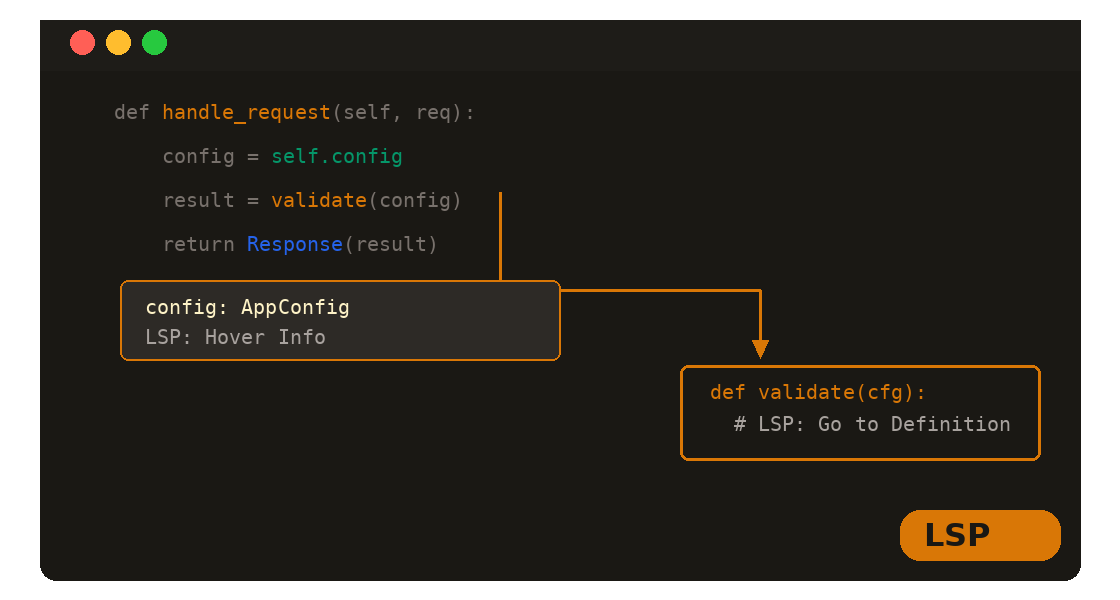
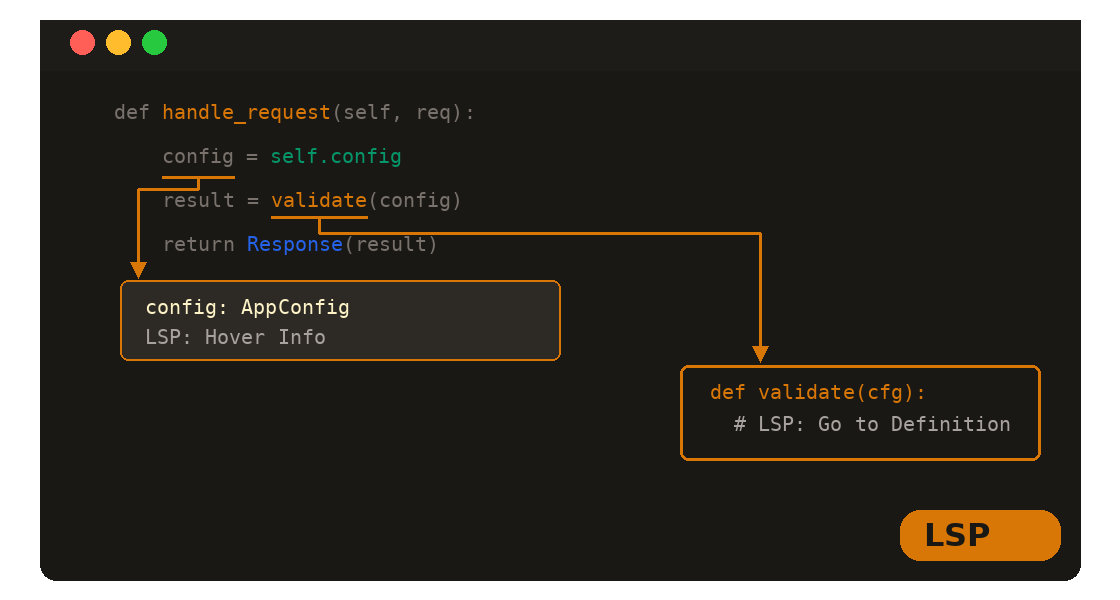
feat: Fix hero image

diff --git a/scripts/generate_lsp_hero_fixed.py b/scripts/generate_lsp_hero_fixed.py
@@ -1,0 +1,160 @@
+from __future__ import annotations
+
+from pathlib import Path
+import sys
+
+from PIL import Image, ImageDraw, ImageFont
+
+
+DARK = "#1A1814"
+AMBER = "#D97706"
+AMBER_LIGHT = "#FEF3C7"
+WHITE = "#FFFDF5"
+STONE = "#78716C"
+GREEN = "#059669"
+BLUE = "#2563EB"
+MUTED = "#A8A29E"
+
+
+def hex_to_rgb(value: str) -> tuple[int, int, int]:
+    value = value.lstrip("#")
+    return tuple(int(value[i:i + 2], 16) for i in (0, 2, 4))
+
+
+DARK_RGB = hex_to_rgb(DARK)
+AMBER_RGB = hex_to_rgb(AMBER)
+AMBER_LIGHT_RGB = hex_to_rgb(AMBER_LIGHT)
+WHITE_RGB = hex_to_rgb(WHITE)
+STONE_RGB = hex_to_rgb(STONE)
+GREEN_RGB = hex_to_rgb(GREEN)
+BLUE_RGB = hex_to_rgb(BLUE)
+MUTED_RGB = hex_to_rgb(MUTED)
+
+
+def load_font(path: str, size: int) -> ImageFont.FreeTypeFont | ImageFont.ImageFont:
+    try:
+        return ImageFont.truetype(path, size)
+    except OSError:
+        return ImageFont.load_default()
+
+
+FONT_LG = load_font("/usr/share/fonts/truetype/dejavu/DejaVuSans-Bold.ttf", 32)
+FONT_CODE = load_font("/usr/share/fonts/truetype/dejavu/DejaVuSansMono.ttf", 20)
+
+
+def draw_arrowhead(
+    draw: ImageDraw.ImageDraw,
+    tip: tuple[int, int],
+    direction: str,
+    color: tuple[int, int, int],
+) -> None:
+    x, y = tip
+    if direction == "down":
+        points = [(x, y), (x - 8, y - 16), (x + 8, y - 16)]
+    elif direction == "right":
+        points = [(x, y), (x - 16, y - 8), (x - 16, y + 8)]
+    else:
+        raise ValueError(f"Unsupported direction: {direction}")
+    draw.polygon(points, fill=color)
+
+
+def generate(output_path: Path) -> None:
+    w, h = 1120, 600
+    img = Image.new("RGBA", (w, h), (0, 0, 0, 0))
+    draw = ImageDraw.Draw(img)
+    token_bounds: dict[str, tuple[int, int, int, int]] = {}
+
+    draw.rounded_rectangle([40, 20, w - 40, h - 20], radius=16, fill=DARK_RGB)
+    draw.rectangle([40, 20, w - 40, 70], fill=(30, 28, 24))
+    draw.rounded_rectangle([40, 20, w - 40, 50], radius=16, fill=(30, 28, 24))
+
+    for i, color in enumerate([(255, 95, 86), (255, 189, 46), (39, 201, 63)]):
+        draw.ellipse([70 + i * 36, 30, 94 + i * 36, 54], fill=color)
+
+    lines_data = [
+        [
+            ("  def ", STONE_RGB, None),
+            ("handle_request", AMBER_RGB, None),
+            ("(self, req):", STONE_RGB, None),
+        ],
+        [
+            ("      ", STONE_RGB, None),
+            ("config", STONE_RGB, "config_decl"),
+            (" = ", STONE_RGB, None),
+            ("self.config", GREEN_RGB, None),
+        ],
+        [
+            ("      result = ", STONE_RGB, None),
+            ("validate", AMBER_RGB, "validate_call"),
+            ("(config)", STONE_RGB, None),
+        ],
+        [
+            ("      return ", STONE_RGB, None),
+            ("Response", BLUE_RGB, None),
+            ("(result)", STONE_RGB, None),
+        ],
+    ]
+
+    y = 100
+    for parts in lines_data:
+        x = 90
+        for text, color, token_id in parts:
+            draw.text((x, y), text, fill=color, font=FONT_CODE)
+            bbox = FONT_CODE.getbbox(text)
+            width = bbox[2] - bbox[0]
+            if token_id:
+                token_bounds[token_id] = (x, y + bbox[1], x + width, y + bbox[3])
+            x += width
+        y += 44
+
+    tooltip = (120, 280, 560, 360)
+    definition = (680, 365, w - 80, 460)
+
+    draw.rounded_rectangle(
+        tooltip,
+        radius=8,
+        fill=(45, 42, 38),
+        outline=AMBER_RGB,
+        width=2,
+    )
+    draw.text((145, 295), "config: AppConfig", fill=AMBER_LIGHT_RGB, font=FONT_CODE)
+    draw.text((145, 325), "LSP: Hover Info", fill=MUTED_RGB, font=FONT_CODE)
+
+    draw.rounded_rectangle(definition, radius=8, outline=AMBER_RGB, width=3)
+    draw.text((710, 380), "def validate(cfg):", fill=AMBER_RGB, font=FONT_CODE)
+    draw.text((710, 412), "  # LSP: Go to Definition", fill=MUTED_RGB, font=FONT_CODE)
+
+    # Hover arrow: visibly attach the arrow to the config token itself.
+    config_left, _, config_right, config_bottom = token_bounds["config_decl"]
+    underline_y = config_bottom + 10
+    draw.line([config_left, underline_y, config_right, underline_y], fill=AMBER_RGB, width=3)
+    config_anchor_x = (config_left + config_right) // 2
+    config_route_y = underline_y + 12
+    config_gutter_x = config_left - 24
+    draw.line([config_anchor_x, underline_y, config_anchor_x, config_route_y], fill=AMBER_RGB, width=3)
+    draw.line([config_anchor_x, config_route_y, config_gutter_x, config_route_y], fill=AMBER_RGB, width=3)
+    draw.line([config_gutter_x, config_route_y, config_gutter_x, 262], fill=AMBER_RGB, width=3)
+    draw_arrowhead(draw, (config_gutter_x, 278), "down", AMBER_RGB)
+
+    # Go-to-definition arrow: visibly attach it to the validate call.
+    validate_left, _, validate_right, validate_bottom = token_bounds["validate_call"]
+    validate_underline_y = validate_bottom + 10
+    draw.line([validate_left, validate_underline_y, validate_right, validate_underline_y], fill=AMBER_RGB, width=3)
+    validate_anchor_x = (validate_left + validate_right) // 2
+    validate_route_y = validate_underline_y + 16
+    draw.line([validate_anchor_x, validate_underline_y, validate_anchor_x, validate_route_y], fill=AMBER_RGB, width=3)
+    draw.line([validate_anchor_x, validate_route_y, 760, validate_route_y], fill=AMBER_RGB, width=3)
+    draw.line([760, validate_route_y, 760, 346], fill=AMBER_RGB, width=3)
+    draw_arrowhead(draw, (760, 362), "down", AMBER_RGB)
+
+    draw.rounded_rectangle([w - 220, h - 90, w - 60, h - 40], radius=20, fill=AMBER_RGB)
+    draw.text((w - 196, h - 84), "LSP", fill=DARK_RGB, font=FONT_LG)
+
+    output_path.parent.mkdir(parents=True, exist_ok=True)
+    img.save(output_path)
+    print(f"Created {output_path}")
+
+
+if __name__ == "__main__":
+    output = Path(sys.argv[1]) if len(sys.argv) > 1 else Path("assets/lsp-hero.png")
+    generate(output)
